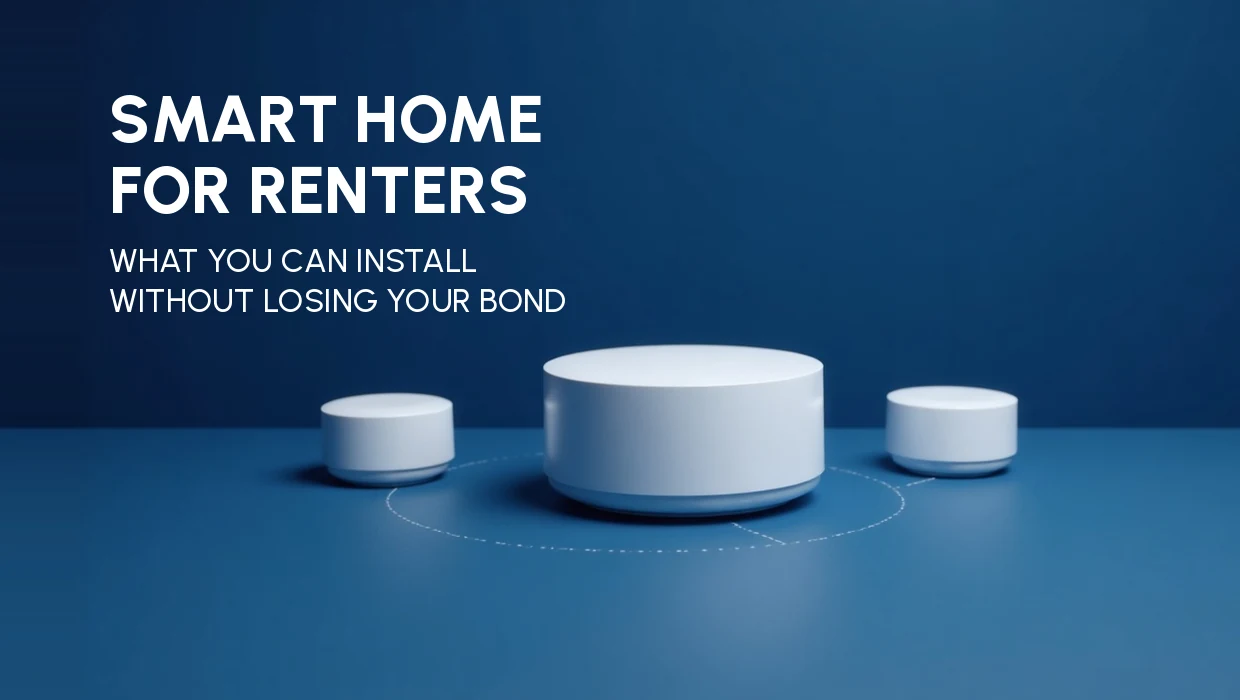
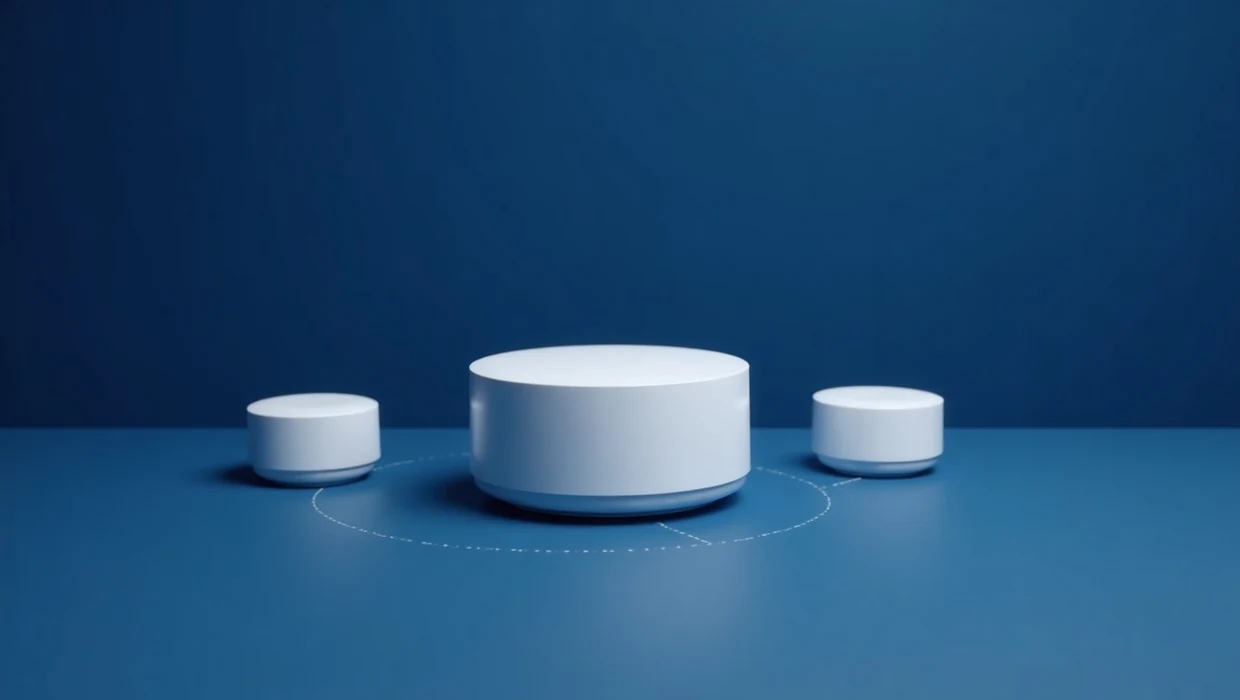
Rework three featured images: drop baked-in headlines, match backdrops
Renters and aircon: the headline is removed so the artwork carries no text.
Renters is rebuilt from its own raw, which is the same scene without type.
Aircon's text sat on a perfectly flat panel, so the panel is simply repainted
and the three products scaled from 39% to 63% of the frame and centred.

Smart plugs: backdrop recoloured from dark green to #a32330, the colour
thread-vs-matter already uses, so the two read as a pair. Done by matting the
wall on a green-against-neutral axis normalised for exposure — that holds in
both the lit halo and the near-black shadow, where saturation alone cannot tell
the wall from the plug's dark housing — then repainting it with shading lifted
from the wall's own luminance and blurred, which keeps the gradient and the
socket's cast shadow without amplifying webp block noise. The matte is limited
to background reachable from the frame edge, so the plug's green indicator
lamps are left alone rather than turning red.

coverText and coverBg are recorded in front matter so a future pipeline run
reproduces these rather than reverting.

Note: public/covers/*.png are stale for several slugs and disagree with the
.webp actually served — the smart-plugs PNG is a raw generation with garbled
text in it. Nothing references them while the webp exists. Left in place.

diff --git a/content/articles/make-split-system-aircon-smart-australia.md b/content/articles/make-split-system-aircon-smart-australia.md
@@ -1,9 +1,10 @@
 ---
 title: 'How to Make Your Split System Air Conditioner Smart (Without Replacing It)'
 description: 'Australian homes run on split systems, not central HVAC. Here is how to add app and voice control to the one you already have, and which approach suits your setup.'
-# The full title runs to 73 characters, which the cover fitter has to shrink to
-# about half the size used on every other cover. These set a short main line so
-# the type matches the rest of the set; the article title itself is unchanged.
+# Product-only cover: the headline is carried by the page, not baked into the art.
+# coverMain/coverSub are kept but inert while coverText is false — they are what
+# the fitter would use if the headline is ever restored.
+coverText: false
 coverMain: 'MAKE YOUR SPLIT SYSTEM SMART'
 coverSub: 'WITHOUT REPLACING THE AIR CONDITIONER'
 category: climate

diff --git a/content/articles/smart-plugs-energy-monitoring-australia.md b/content/articles/smart-plugs-energy-monitoring-australia.md
@@ -2,6 +2,10 @@
 title: 'Do Smart Plugs Actually Save You Money on Australian Electricity?'
 description: 'Smart plugs are sold as an energy-saving device. Here is what they genuinely save, what they cost you in standby power, and where the real savings are in an Australian home.'
 category: energy
+# Matches thread-vs-matter-difference, so the two read as a pair. The shipped
+# cover was recoloured to this from its original green; a regeneration will land
+# on it directly.
+coverBg: '#a32330'
 coverLead: 'Energy and running costs'
 coverMain: 'Do smart plugs save money?'
 coverSub: 'The honest answer for Australian bills'

diff --git a/content/articles/smart-home-for-renters-australia.md b/content/articles/smart-home-for-renters-australia.md
@@ -1,6 +1,8 @@
 ---
 title: 'Smart Home for Renters: What You Can Install Without Losing Your Bond'
 description: 'A complete guide to building a capable smart home in a rental — what needs no permission, what does, and how to take it all with you when you move.'
+# Product-only cover: the headline is carried by the page, not baked into the art.
+coverText: false
 category: buying-guides
 type: buying-guide
 date: '2026-07-09'
